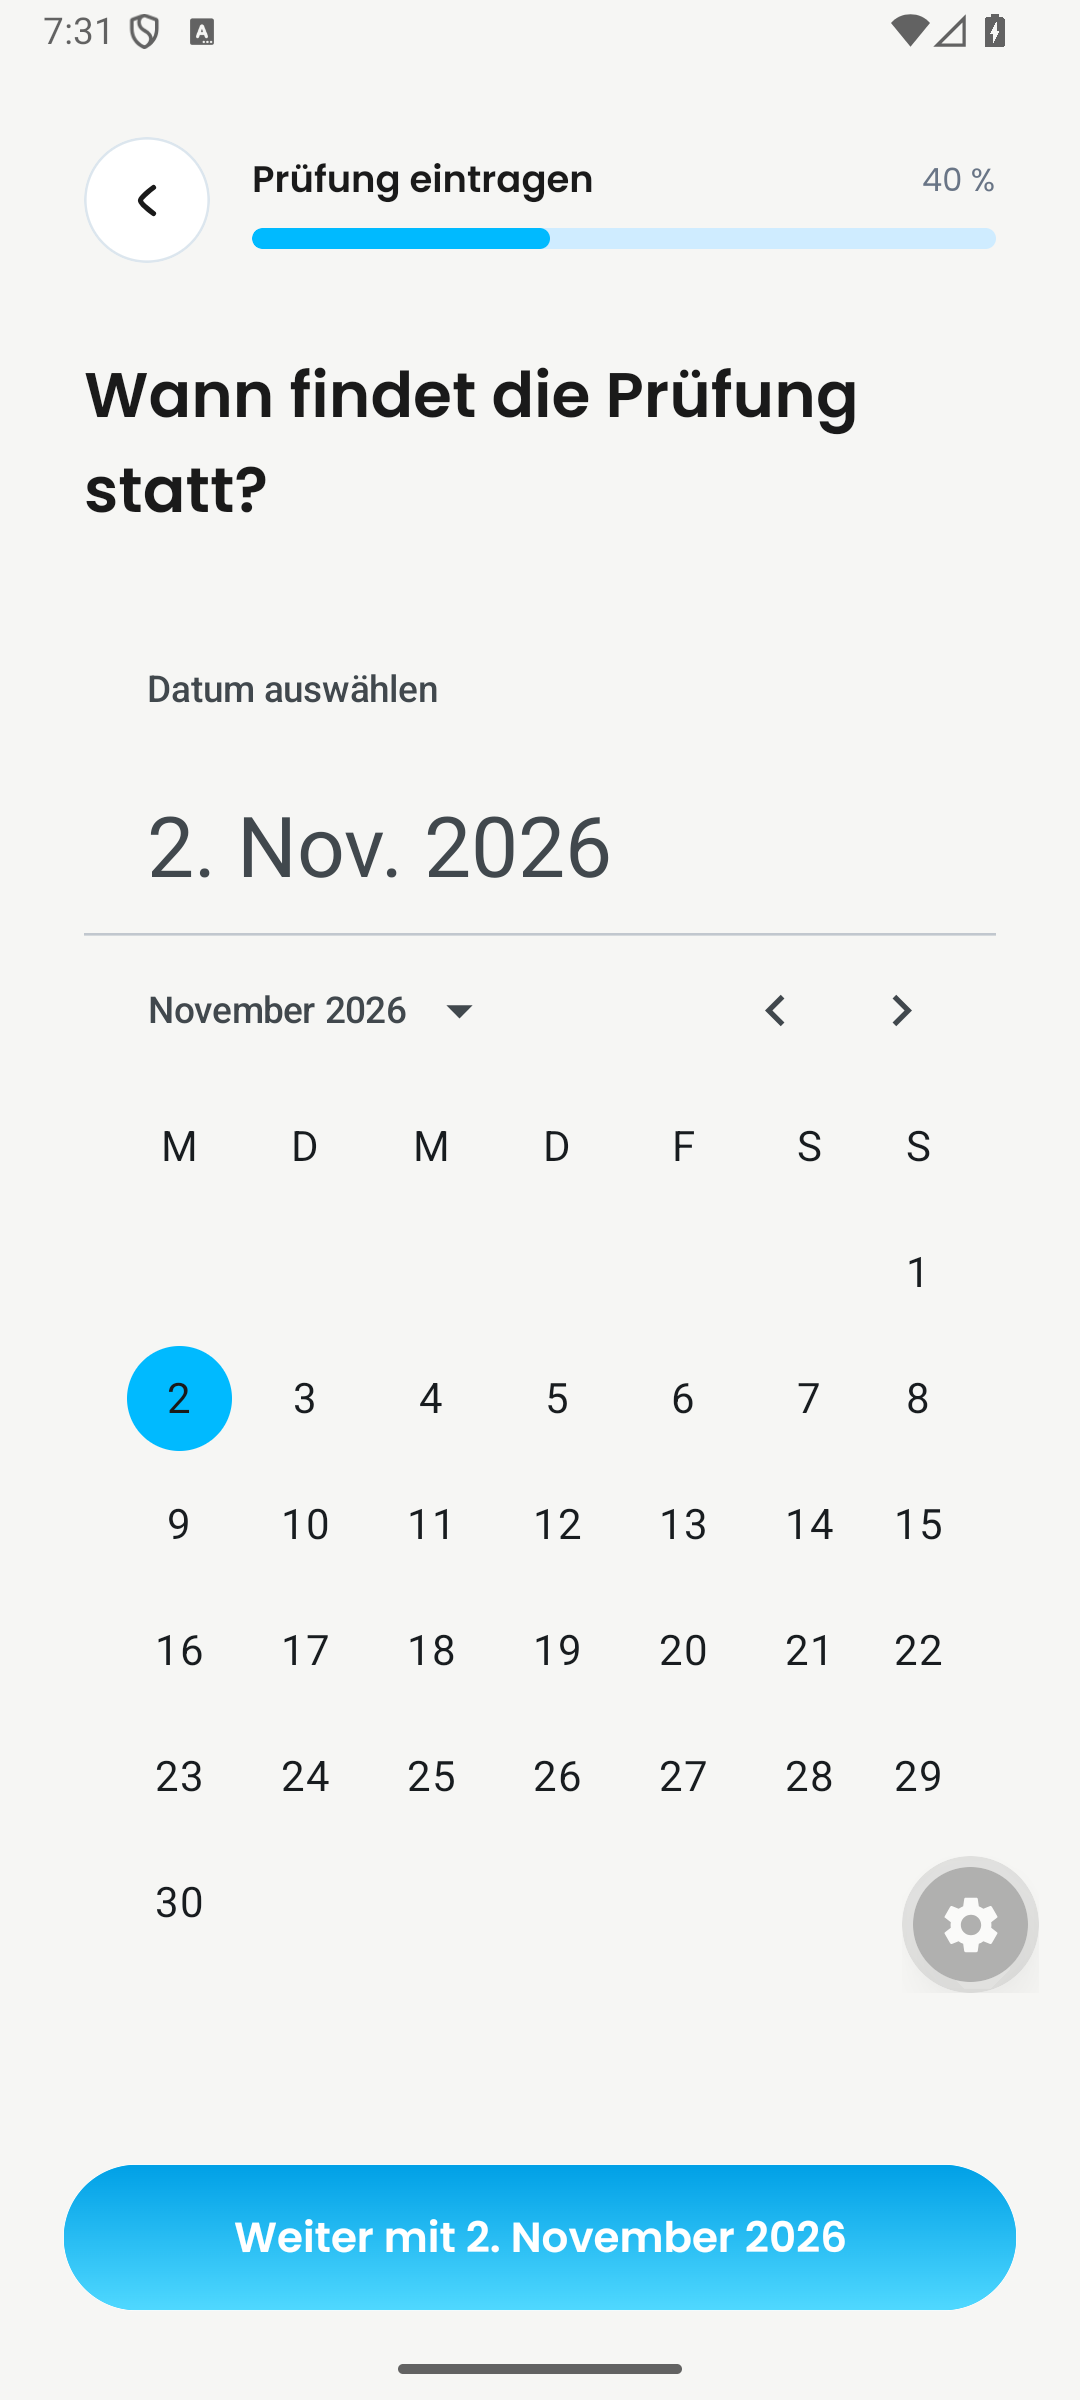
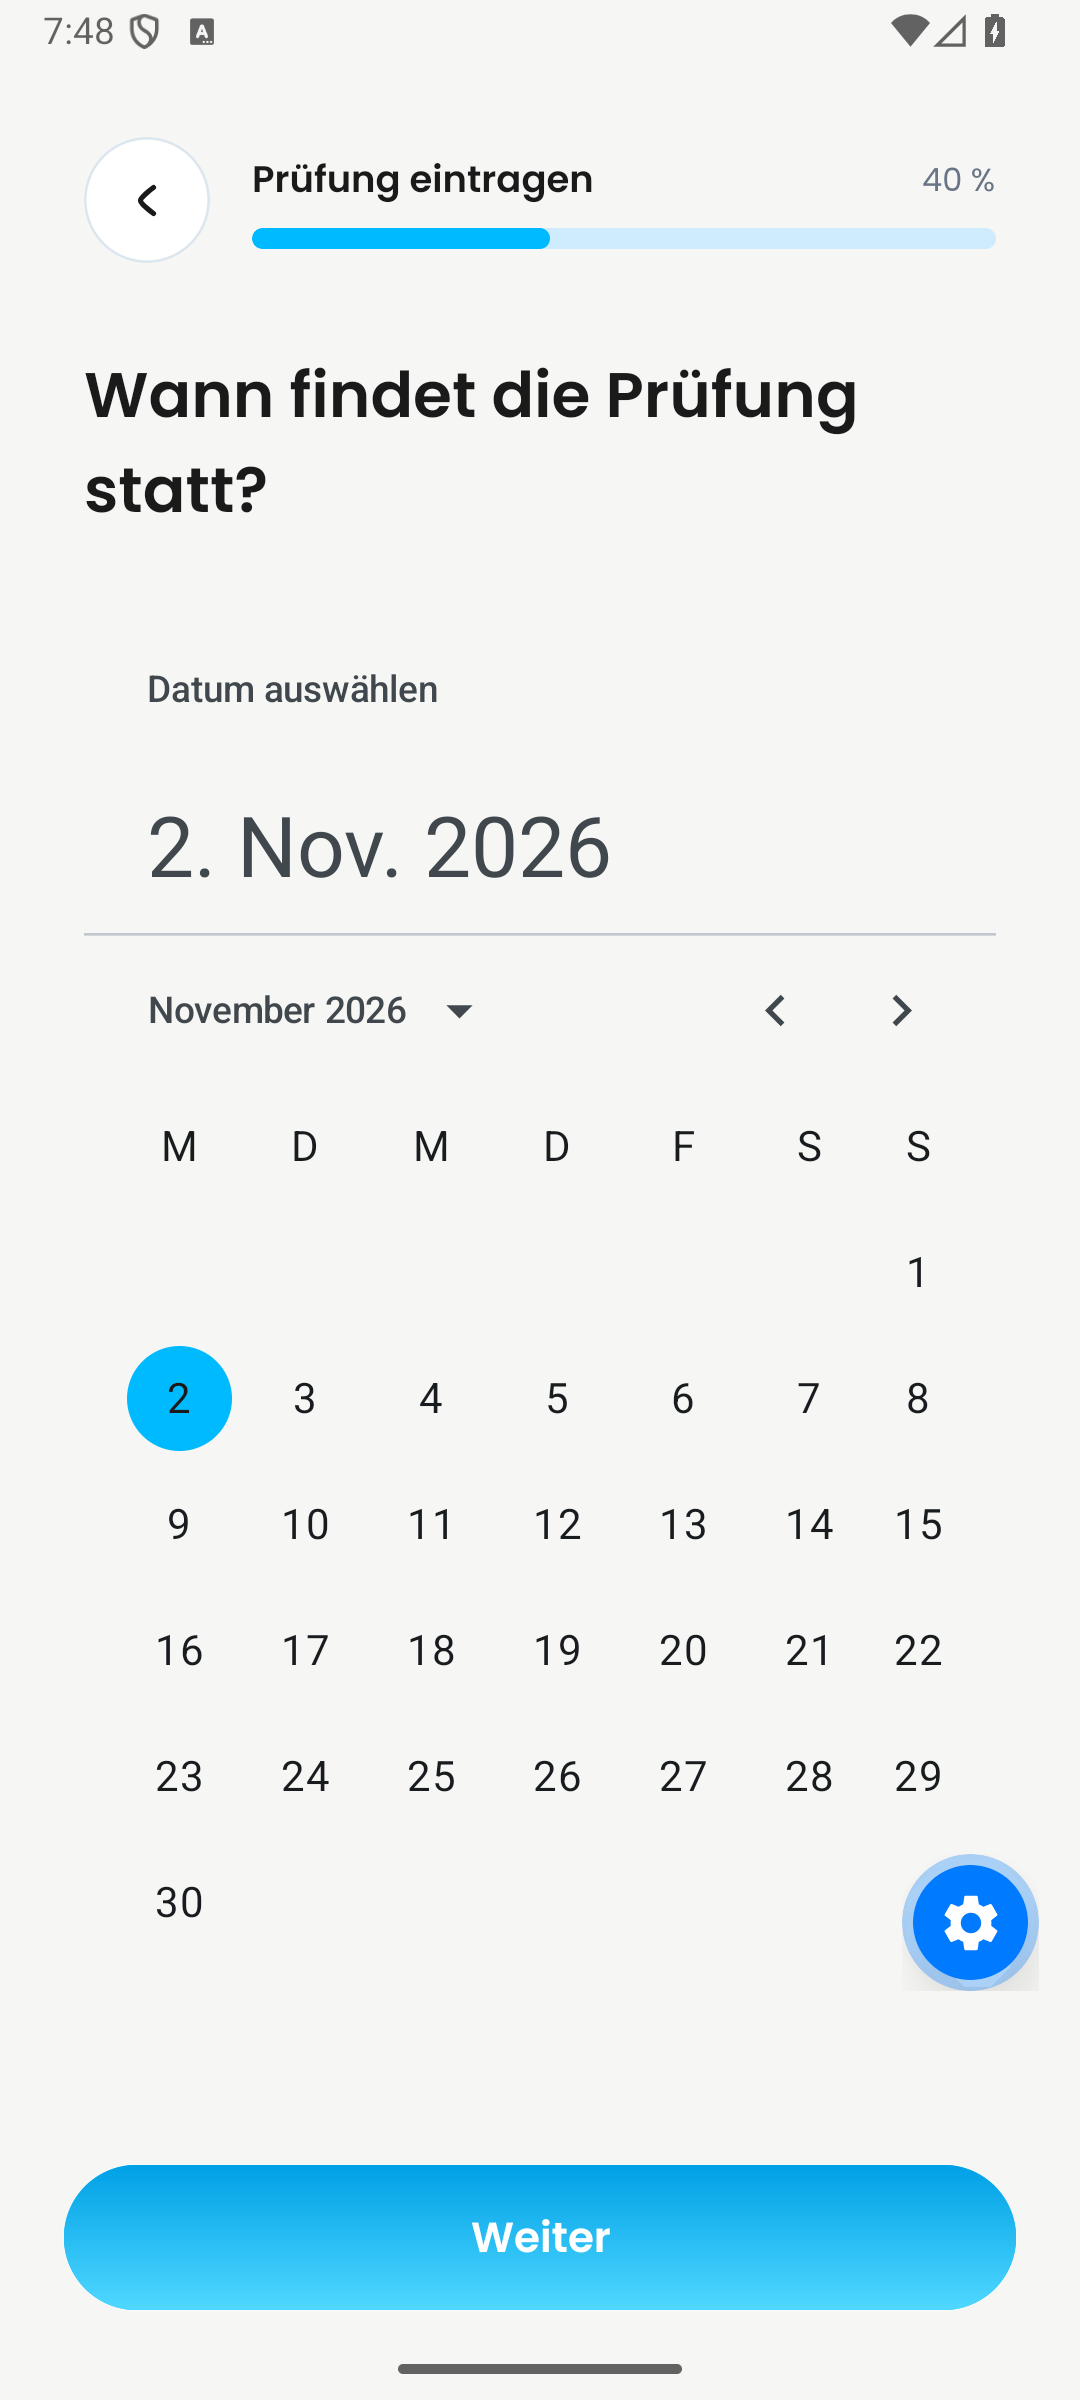
fix: keep Android exam continue label concise

Changed region(s): [[0.2139, 0.9062, 0.7944, 0.9375], [0.825, 0.75, 0.9778, 0.8438], [0.0611, 0.0, 0.0917, 0.0312]]

diff --git a/src/features/learning-plans/creation-flow.ui.test.tsx b/src/features/learning-plans/creation-flow.ui.test.tsx
@@ -1,5 +1,13 @@
-import { beforeEach, describe, expect, jest, test } from "@jest/globals";
+import {
+	afterEach,
+	beforeEach,
+	describe,
+	expect,
+	jest,
+	test,
+} from "@jest/globals";
 import { act, fireEvent, render, waitFor } from "@testing-library/react-native";
+import { Platform } from "react-native";
 import NewEntryScreen from "~/app/(creation)/entry/new";
 import NewLearningPlanScreen from "~/app/(creation)/learning-plans/new";
 
@@ -291,6 +299,10 @@ beforeEach(() => {
 	};
 });
 
+afterEach(() => {
+	jest.restoreAllMocks();
+});
+
 function followReplacement() {
 	const destination = mockRouter.replace.mock.calls.at(-1)?.[0];
 	expect(typeof destination).toBe("string");
@@ -328,11 +340,27 @@ async function selectGalleryPhotos(
 }
 
 describe("exam creation across the topics boundary", () => {
-	test("carries an inline calendar selection into topics and back to the date step", async () => {
+	test.each([
+		{
+			platform: "ios" as const,
+			initialLabel: "Weiter mit 30. September 2026",
+			selectedLabel: "Weiter mit 2. November 2026",
+		},
+		{
+			platform: "android" as const,
+			initialLabel: "Weiter",
+			selectedLabel: "Weiter",
+		},
+	])("carries an inline calendar selection into topics and back on $platform", async ({
+		platform,
+		initialLabel,
+		selectedLabel,
+	}) => {
+		jest.replaceProperty(Platform, "OS", platform);
 		let screen = await render(<NewEntryScreen />);
 		expect(mockProgress.currentStep).toBe(2);
 		expect(
-			screen.getByRole("button", { name: "Weiter mit 30. September 2026" }),
+			screen.getByRole("button", { name: initialLabel }),
 		).toBeOnTheScreen();
 		await fireEvent(
 			screen.getByTestId("inline-calendar"),
@@ -340,7 +368,7 @@ describe("exam creation across the topics boundary", () => {
 			new Date(2026, 10, 2, 15, 30),
 		);
 		expect(
-			screen.getByRole("button", { name: "Weiter mit 2. November 2026" }),
+			screen.getByRole("button", { name: selectedLabel }),
 		).toBeOnTheScreen();
 		await fireEvent.press(
 			screen.getByRole("button", { name: /^Weiter(?: mit .+)?$/ }),
@@ -354,7 +382,7 @@ describe("exam creation across the topics boundary", () => {
 		await screen.unmount();
 		screen = await render(<NewEntryScreen />);
 		expect(
-			screen.getByRole("button", { name: "Weiter mit 2. November 2026" }),
+			screen.getByRole("button", { name: selectedLabel }),
 		).toBeOnTheScreen();
 		expect(screen.getByTestId("inline-calendar").props.value).toEqual(
 			new Date(2026, 10, 2),

diff --git a/src/app/(creation)/entry/new.tsx b/src/app/(creation)/entry/new.tsx
@@ -948,7 +948,7 @@ export default function NewEntryScreen() {
 								<ActivityIndicator color="#FFFFFF" />
 							) : (
 								<Text className="shrink text-center">
-									{step === "basics"
+									{step === "basics" && Platform.OS !== "android"
 										? `Weiter mit ${formatAccessibleExamDate(plannedDate)}`
 										: "Weiter"}
 								</Text>

diff --git a/docs/evidence/day-515-inline-calendar/README.md b/docs/evidence/day-515-inline-calendar/README.md
@@ -1,6 +1,6 @@
 # DAY-515 inline exam calendar validation
 
-Updated on 16 October 2026 with Android evidence for source commit `d2c8dd4f`.
+Updated on 16 October 2026 with a refreshed Android light-theme capture after the Android-only Continue-label adjustment.
 
 ## Scope and native controls
 
@@ -9,6 +9,8 @@ Only the exam branch of `/entry/new?type=exam`, at “Wann findet die Prüfung s
 The homework branch (`type=homework`), onboarding/profile questions and learning-time setup, timetable, notifications, and existing session/preparation editors keep their current controls. `InlineDatePicker` is new and its only production consumer is `ExamDateSelector`; the existing shared `DateTimePickerSheet` is not changed by this PR.
 
 Android uses `DateTimePicker` from `@expo/ui/jetpack-compose`, backed by `androidx.compose.material3.DatePicker`, inside a native `Host`. It retains native Material 3 calendar behavior with Dayova theme colors and light/dark mode. The presentation changes from opening a date dialog to showing the native calendar directly in the exam-date step. iOS retains its native inline date control through `@expo/ui/community/datetime-picker`.
+
+Android's footer button reads “Weiter”: the native calendar already displays the selected date prominently above the grid. iOS keeps the date in its button, for example “Weiter mit 2. November 2026”. Selection, navigation, and date retention are unchanged on both platforms.
 
 ## iOS captures — 14 October 2026
 
@@ -32,13 +34,13 @@ The iOS native inline host uses measured width and explicit height with extra sp
 
 ## Android captures — 16 October 2026
 
-Captured on a local Android emulator using the `Dayova_PR836` AVD and a development client connected to Metro serving this PR at `d2c8dd4f`. A temporary native fixture mounts the unchanged production calendar, progress header, theme, text, and button components; its surrounding layout follows the exam-date route. It does not mount the authenticated route or call the backend. The entry point was restored and the fixture removed after capture.
+Captured on a local Android emulator using the `Dayova_PR836` AVD and a development client connected to Metro serving this PR. The light-theme image was refreshed after changing the Android footer label to “Weiter”. A temporary native fixture mounts the unchanged production calendar, progress header, theme, text, and button components; its surrounding layout and footer label follow the exam-date route. It does not mount the authenticated route or call the backend. The entry point was restored and the fixture removed after capture.
 
-- `android-light-selected-date.png`: German app locale, light theme, 2 November 2026 selected; the six-row month, 40% progress, and “Weiter mit 2. November 2026” are visible.
-- `android-dark-selected-date.png`: the same selected date and month in dark theme.
-- In the live fixture, ADB taps advanced from October to November and selected 2 November. The calendar selection and Continue label updated together. The final captures also use that date as fixture state; they are still images, not recordings of the interaction.
+- `android-light-selected-date.png`: German app locale, light theme, 2 November 2026 selected; the six-row month, 40% progress, and “Weiter” are visible. The selected date appears in the native calendar header.
+- `android-dark-selected-date.png`: historical capture at `d2c8dd4f` of the same selected date and month in dark theme. It still shows the previous date-bearing footer and is not evidence of the final button text. The emulator stalled during the dark recapture attempt; that session was stopped. Only the refreshed light capture is shown as current Android evidence in the PR description.
+- During the original capture at `d2c8dd4f`, ADB taps advanced from October to November and selected 2 November; the date and the then-current footer label updated together. The refreshed light capture uses 2 November as fixture state and shows the final “Weiter” label; it is a still image, not a recording of the interaction.
 - The floating gear belongs to Expo development tools and is not part of Dayova's product UI.
 
-The 16 October recovery validation recorded 36 UI tests, 7 date/progress unit tests, and TypeScript passing with frozen branch dependencies. This evidence/description-only update does not change runtime code or rerun those suites.
+The 16 October recovery validation recorded 36 UI tests, 7 date/progress unit tests, and TypeScript passing with frozen branch dependencies. After the Android footer-label adjustment, 37 UI tests passed across creation flow, exam controls, and the Android inline picker, along with TypeScript and scoped Biome/ESLint checks. The existing selection/navigation/return test now runs on both iOS and Android and checks their distinct footer labels before and after selection and after returning from topics. The scoped diff was reviewed manually; CodeRabbit CLI review was attempted but rate-limited.
 
 Android native appearance and date-selection behavior have now been inspected in the fixture. Authenticated end-to-end device navigation, maximum text size, tablet layout, and team approval remain outstanding; route navigation and date retention are covered by the existing integration tests rather than these screenshots.

diff --git a/docs/contexts/design-system/CONTEXT.md b/docs/contexts/design-system/CONTEXT.md
@@ -52,7 +52,9 @@ from `src/components/ui/inline-date-picker` instead. It owns native inline
 rendering, theme, native sizing, and Android date-only timezone conversion.
 [DAY-515](https://linear.app/dayova/issue/DAY-515) defines the exam-date step: the
 calendar appears below the question, without a separate selected-date card. Day
-changes immediately update the Continue label ("Weiter mit 2. November 2026").
+changes immediately update the Continue label on iOS ("Weiter mit 2. November 2026").
+Android uses "Weiter" because its native Material calendar already displays the
+selected date prominently above the calendar grid.
 The creation progress header stays visible, and Continue advances to topics.
 
 ## Icons
